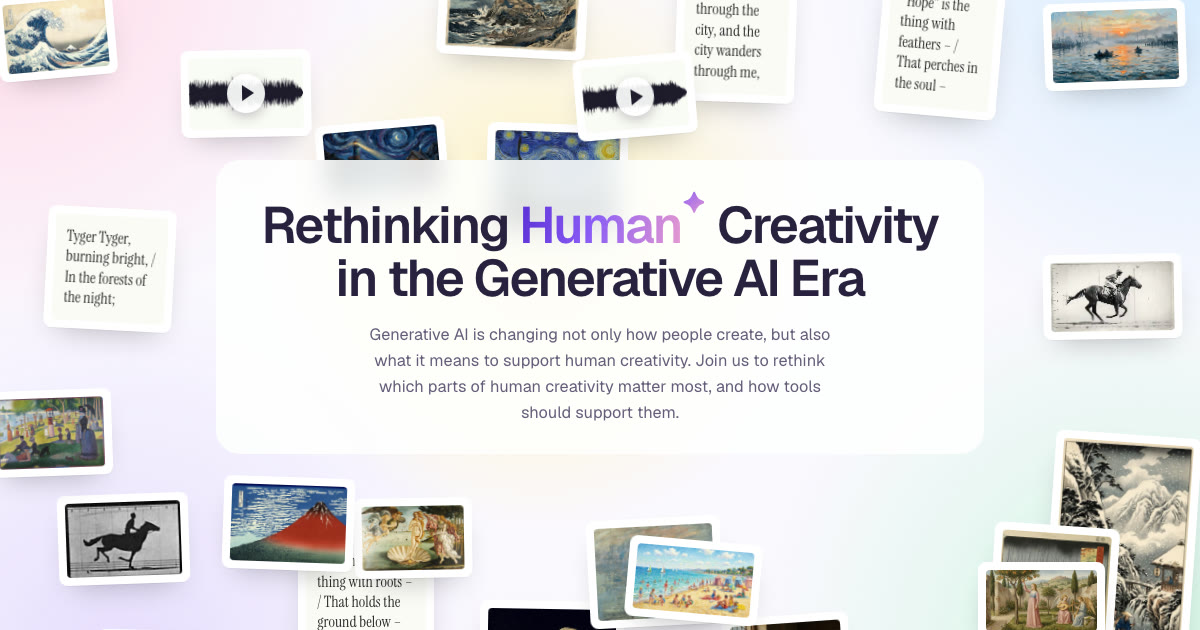
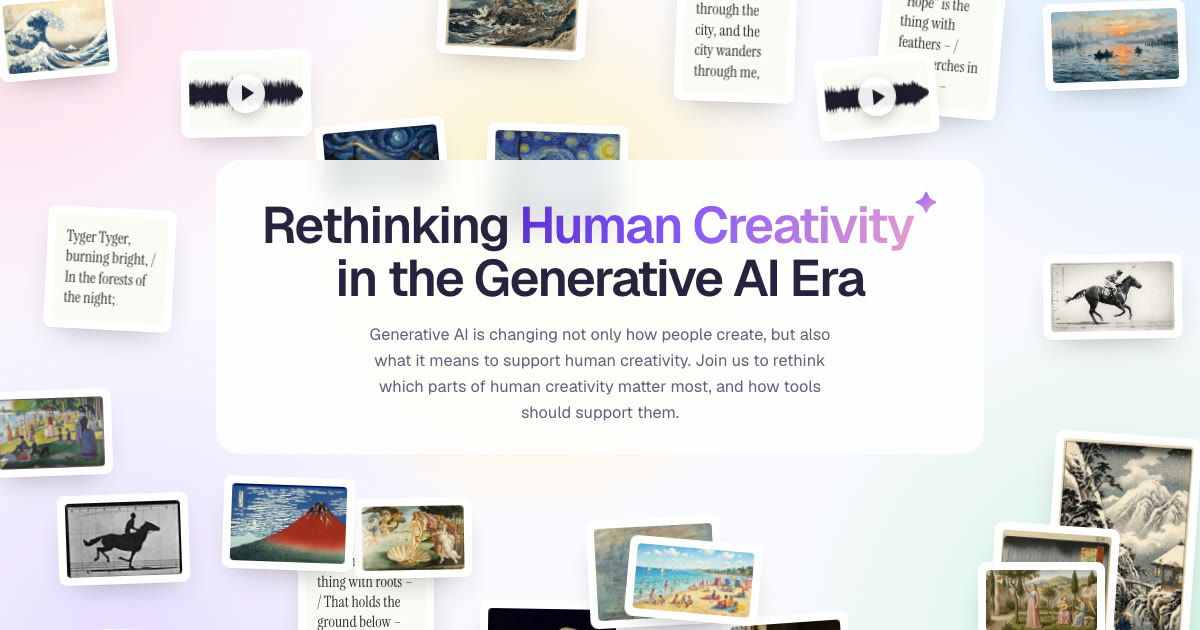
Static gradient Human Creativity title, per Ryo
Claude-Session: https://claude.ai/code/session_01NMzNLmiuZTEgUwVhPqyKNi

diff --git a/index.html b/index.html
@@ -23,7 +23,7 @@
         <a class="nav__logo" href="https://chi2027.acm.org/" aria-label="CHI 2027 website">
           <img src="assets/chi2027-logo.svg" alt="CHI 2027, May 10-14, Pittsburgh" width="118" height="48">
         </a>
-        <a class="nav__brand" href="#top" aria-label="Rethinking Human Creativity">Rethinking <span class="grad">Human</span> Creativity</a>
+        <a class="nav__brand" href="#top" aria-label="Rethinking Human Creativity">Rethinking <span class="grad">Human Creativity</span></a>
       </div>
       <ul class="nav__links">
         <li><a href="#activities">Activities</a></li>
@@ -40,7 +40,7 @@
       <div class="wall-field" data-wall="assets/works/" aria-label="A wall of works, some made by people and some by AI"></div>
       <div class="wall-title">
         <div class="wall-title__box">
-          <h1 aria-label="Rethinking Human Creativity in the Generative AI Era">Rethinking <ins data-insert>Human</ins><span class="title-spark" aria-hidden="true">&#10022;</span> Creativity<br>in the Generative AI Era</h1>
+          <h1>Rethinking <span class="grad">Human Creativity</span><span class="title-spark is-on" aria-hidden="true">&#10022;</span><br>in the Generative AI Era</h1>
           <p>Generative AI is changing not only how people create, but also what it means to support human creativity. Join us to rethink which parts of human creativity matter most, and how tools should support them.</p>
         </div>
       </div>
@@ -232,7 +232,6 @@
       <p class="site-footer__fine">Proposed for the 2027 CHI Conference on Human Factors in Computing Systems.</p>
     </div>
   </footer>
-  <script src="js/insert.js" defer></script>
   <script src="js/wall.js" defer></script>
   <script src="js/deck.js" defer></script>
 </body>
